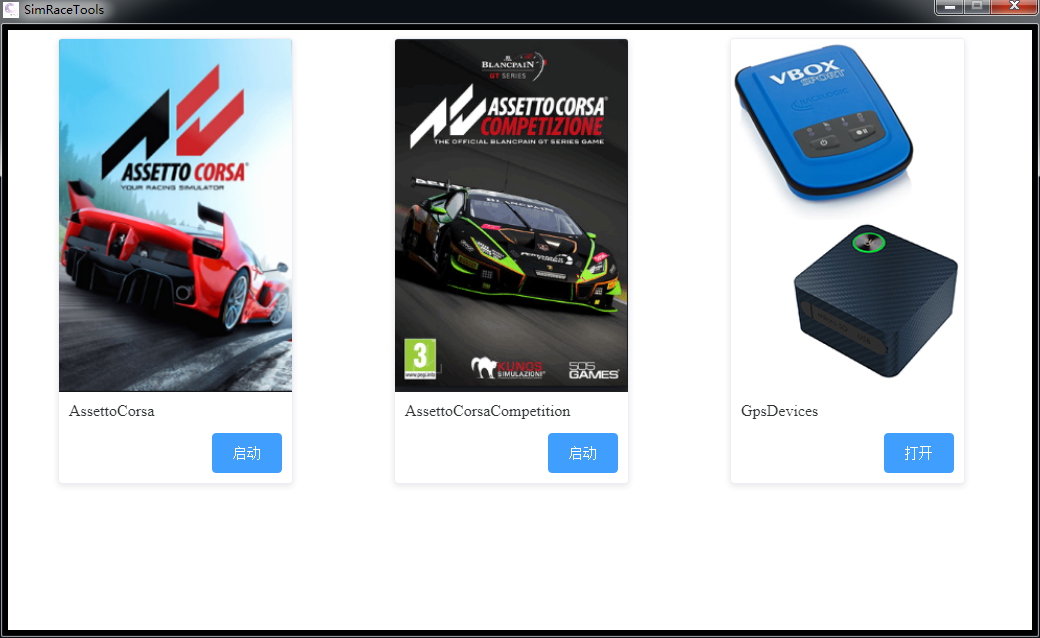
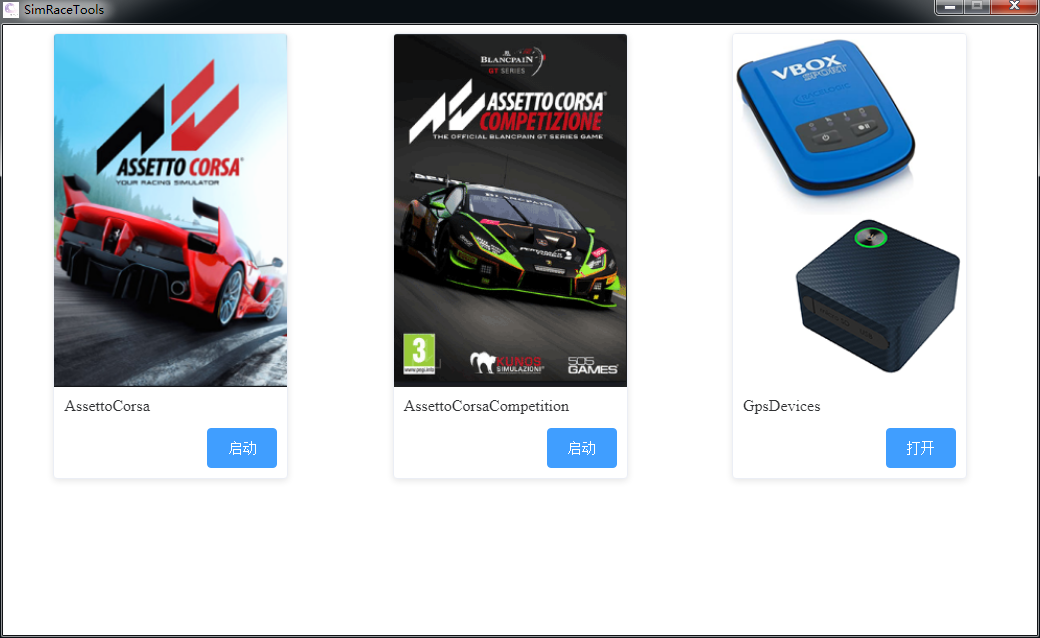
add

diff --git a/rct_simrace_tools/src/renderer/components/LandingPage.vue b/rct_simrace_tools/src/renderer/components/LandingPage.vue
@@ -46,7 +46,9 @@
 </script>
 
 <style>
-	
+	body {
+		padding: 0rem;
+	}
 
 	.bottom {
 		margin-top: 13px;
